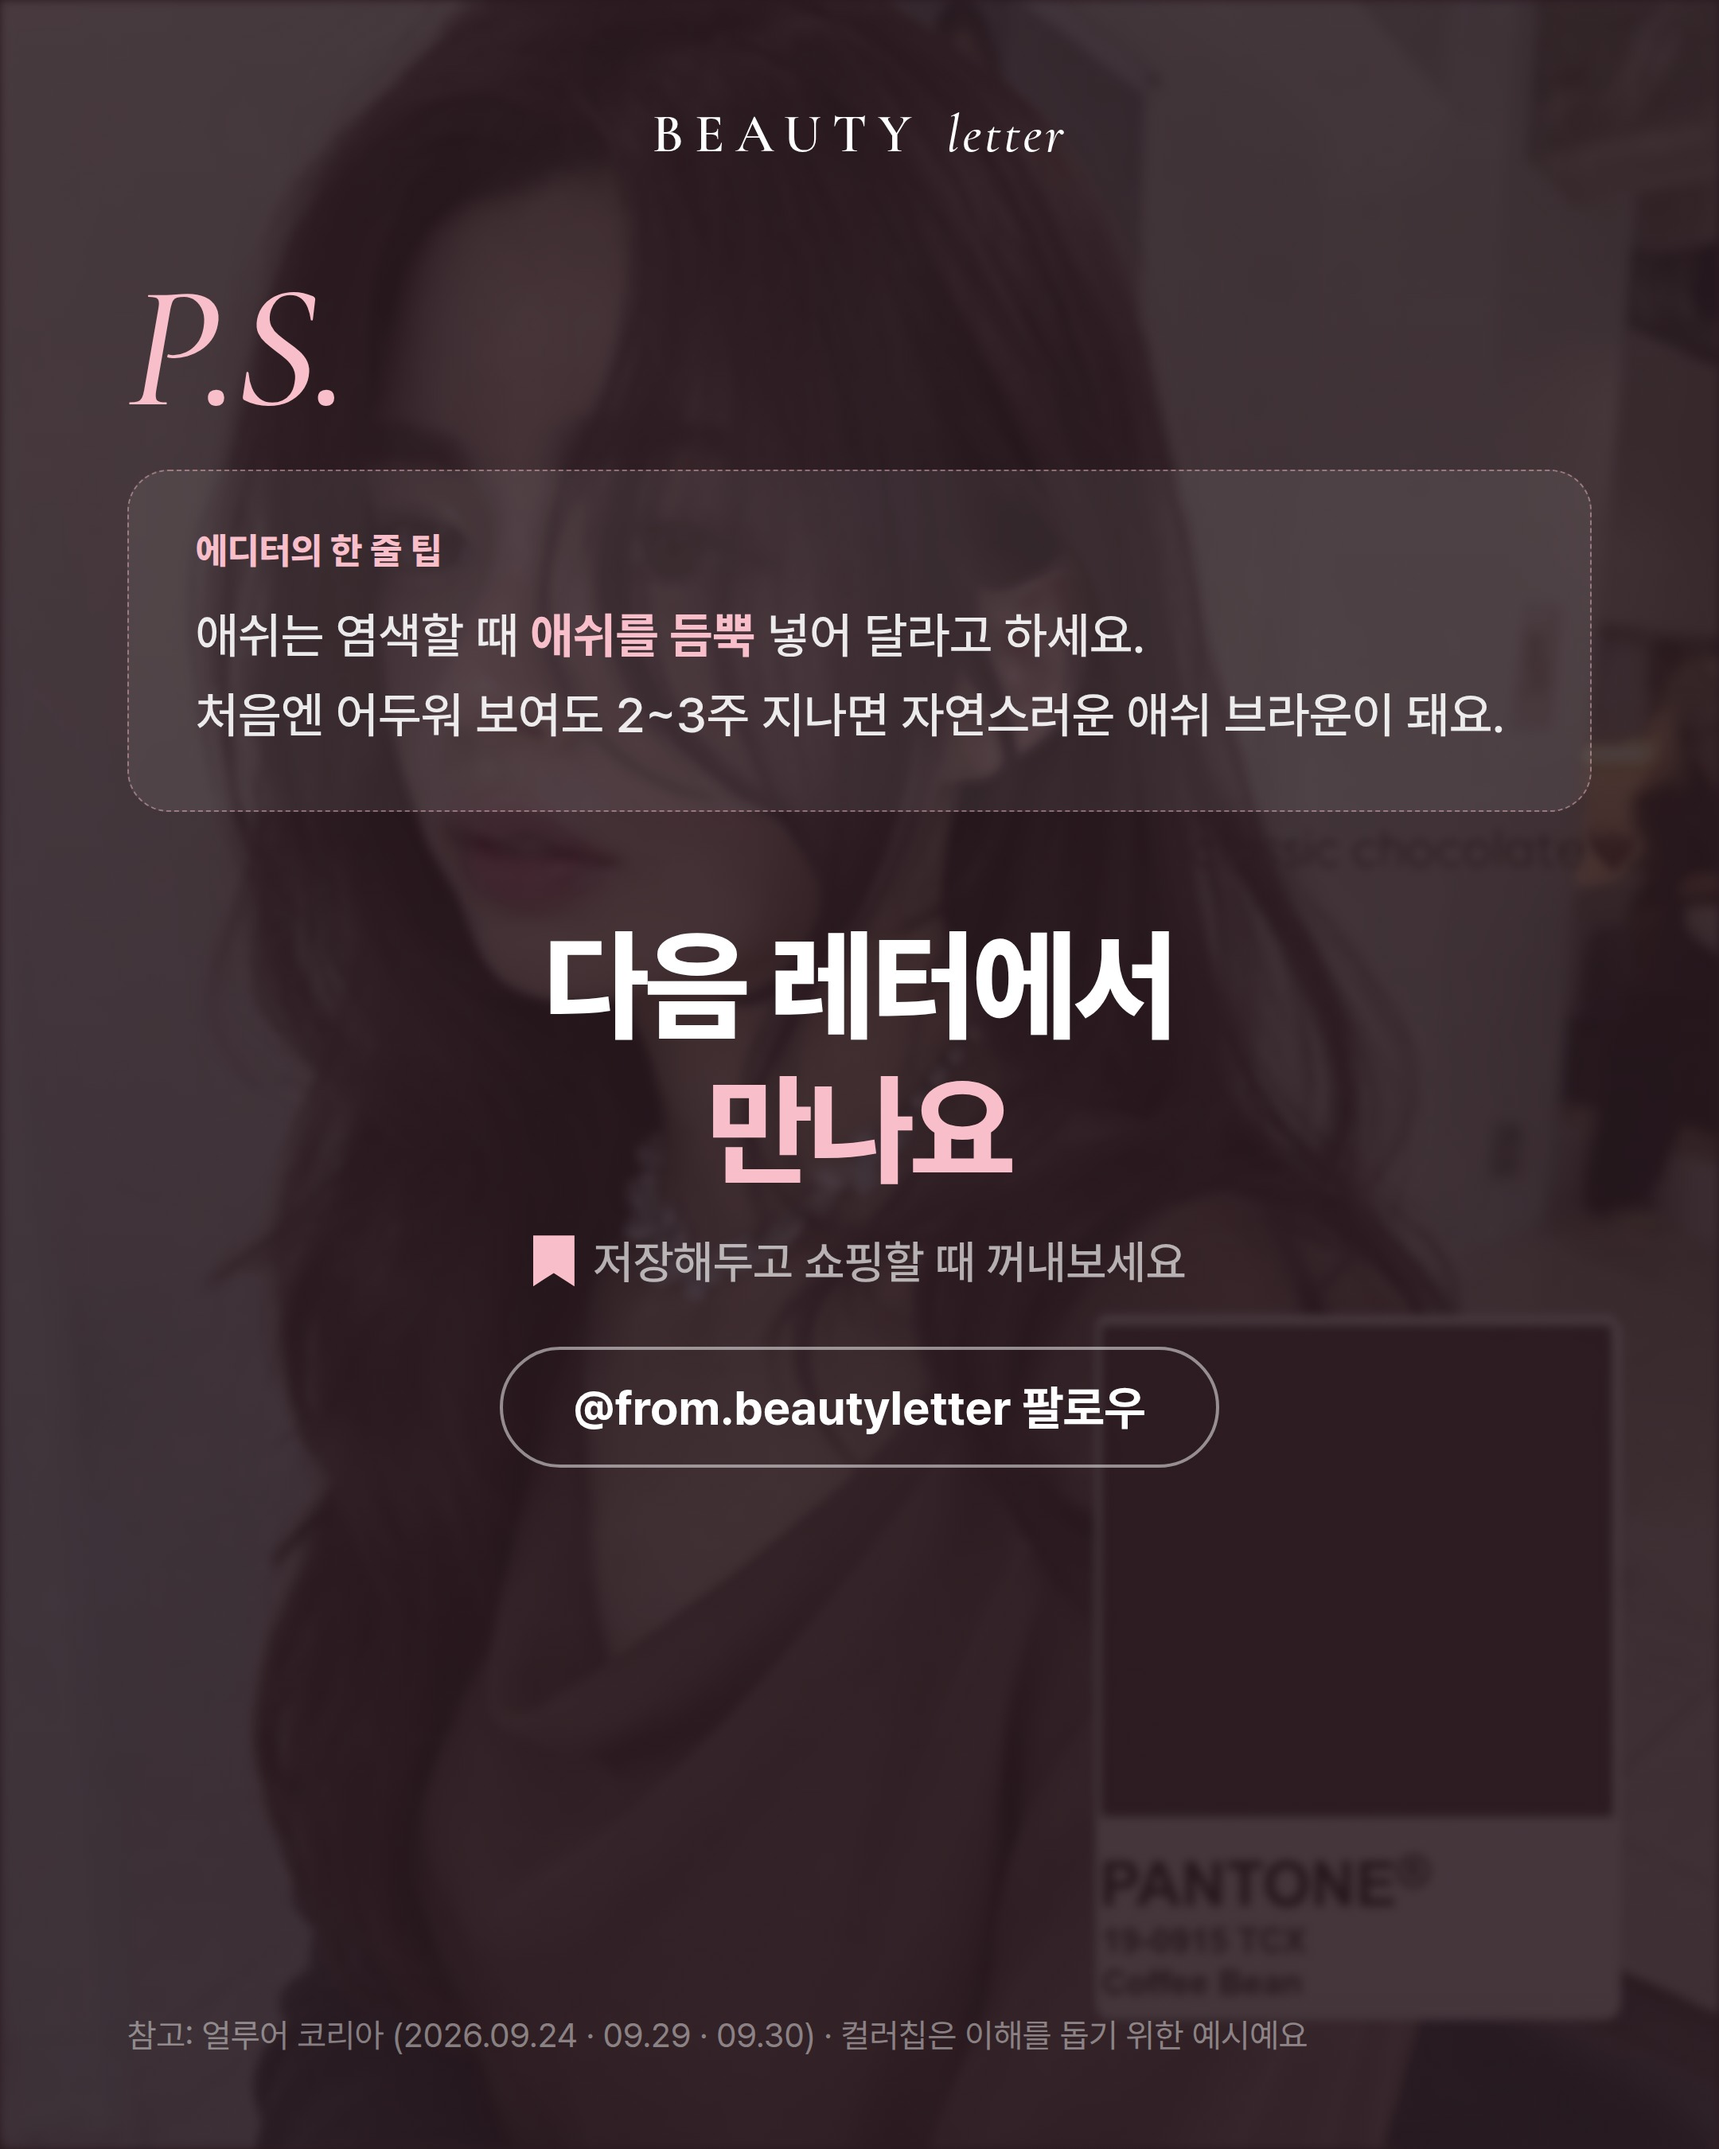
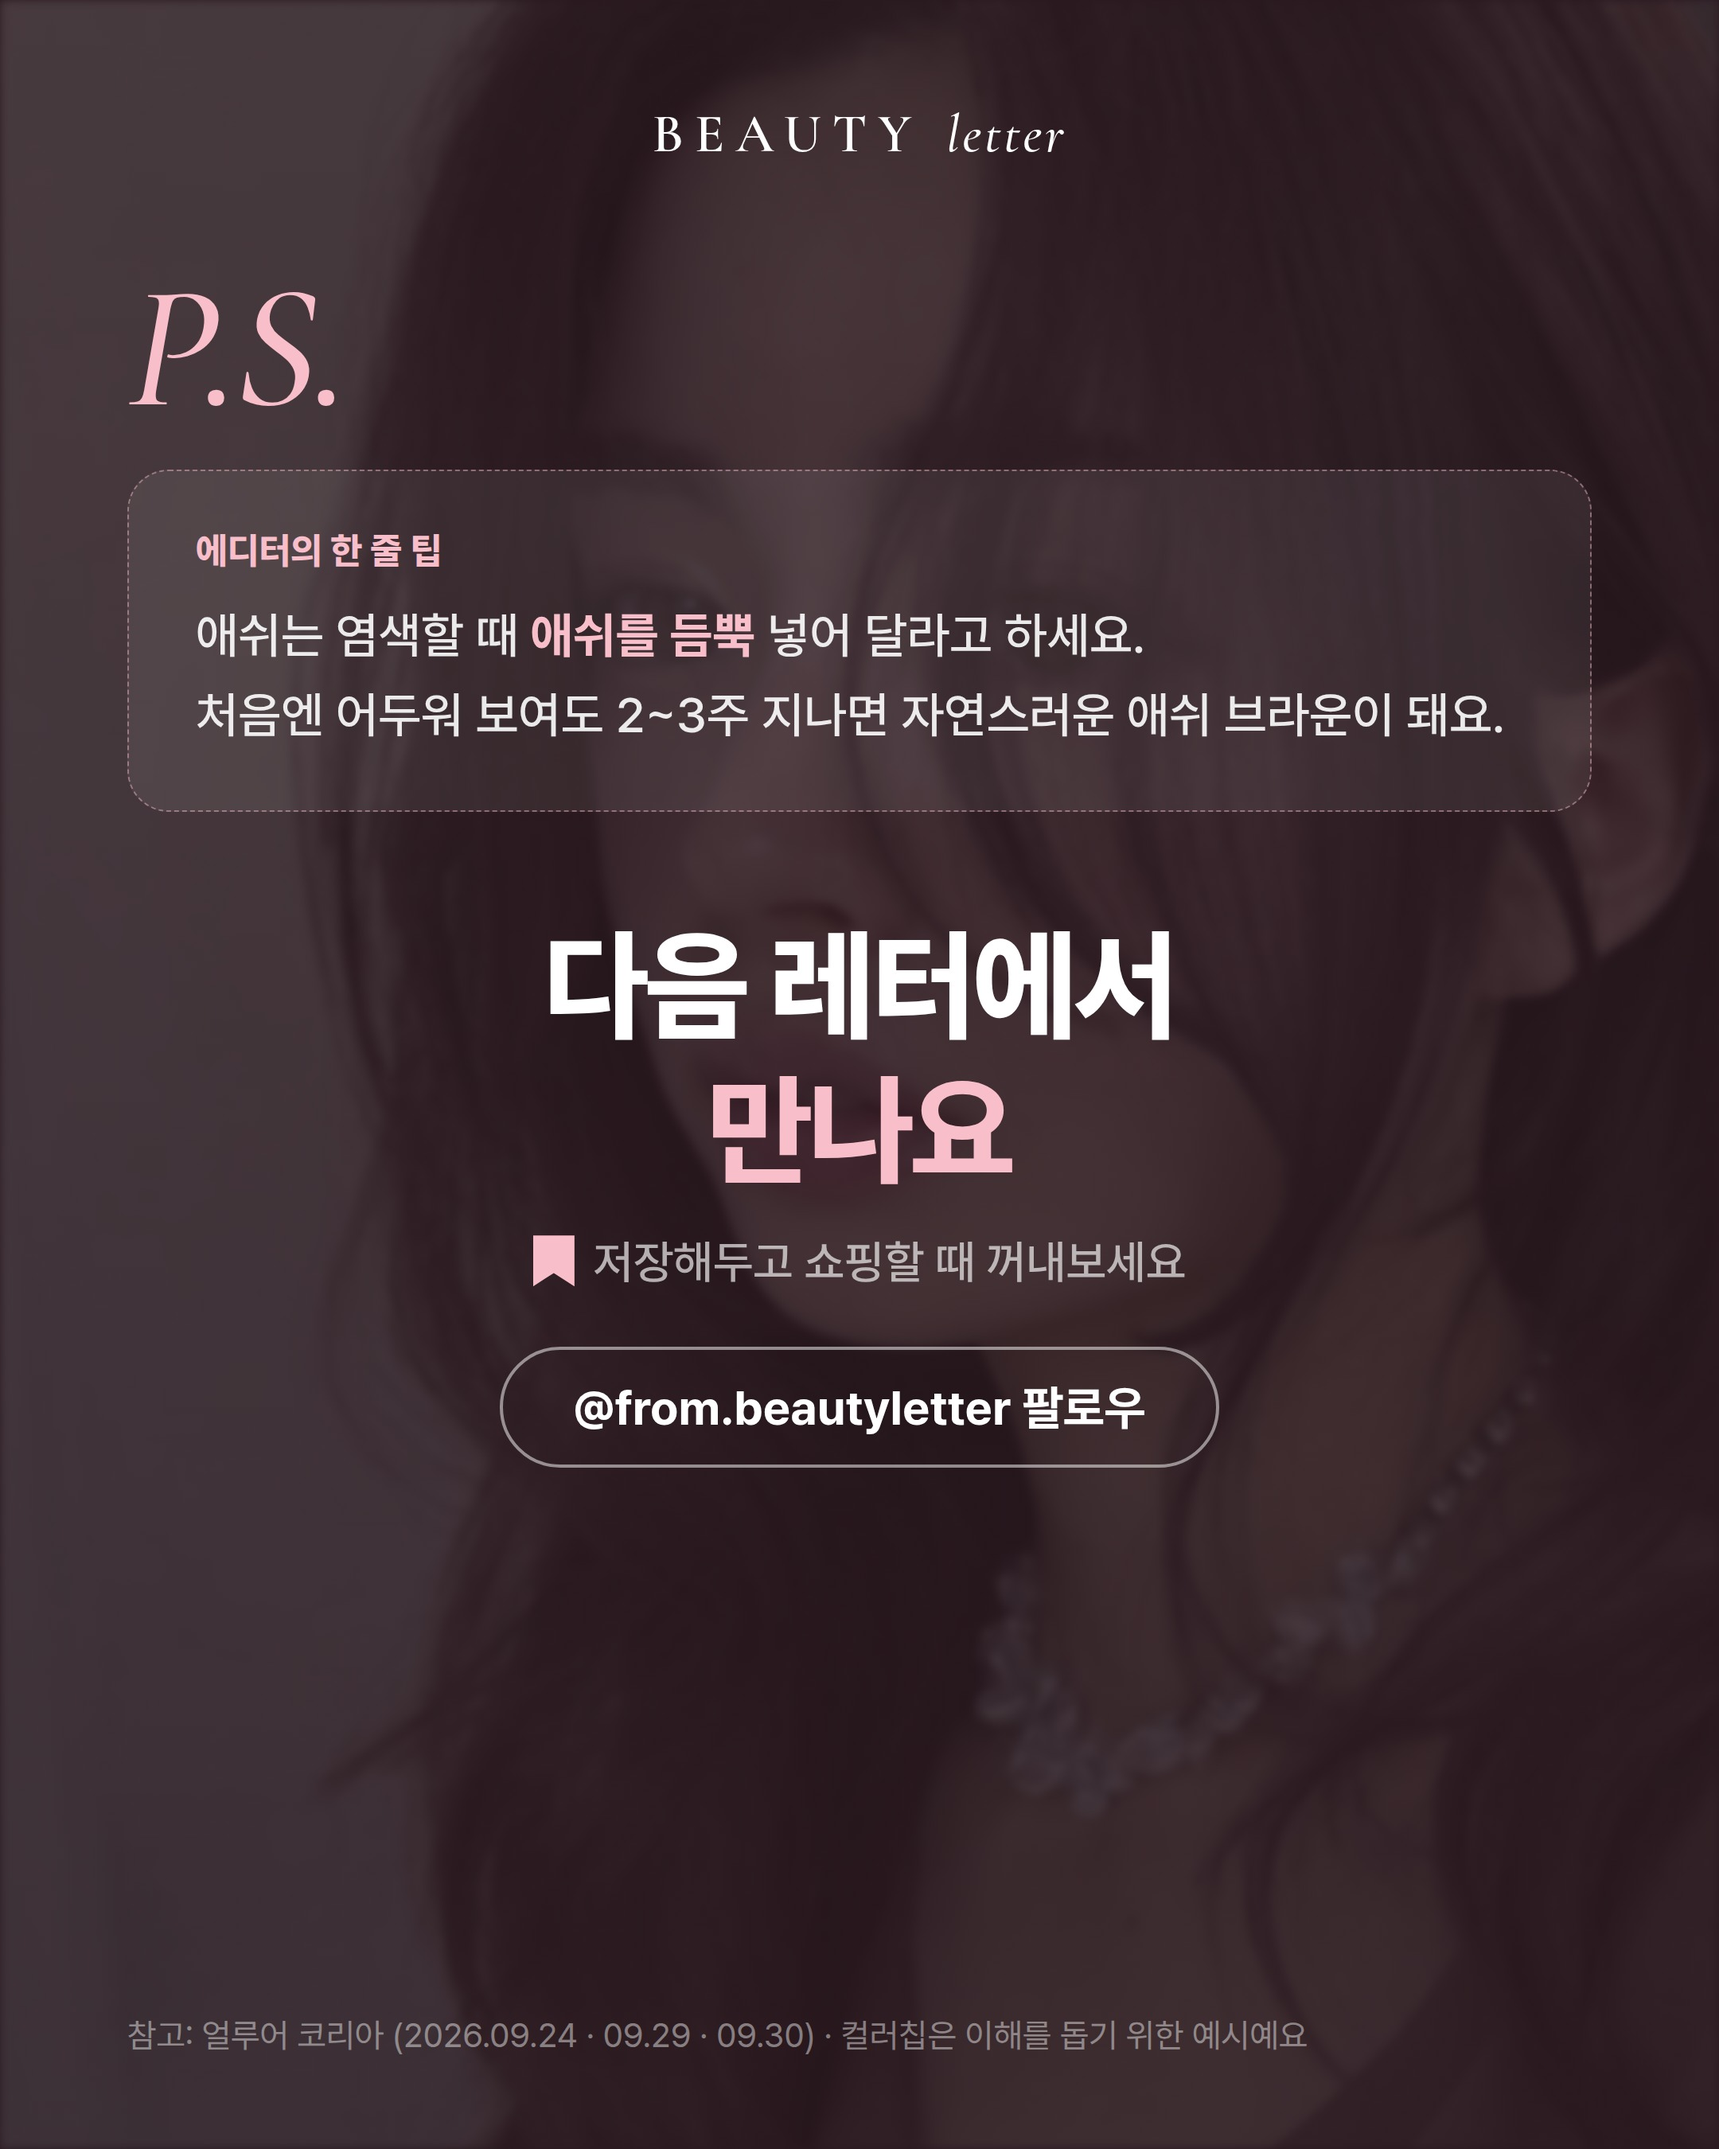
뷰티레터 10/4 오후: 표지 인물 확대 크롭(글자·컬러카드 제외)
Claude-Session: https://claude.ai/code/session_01M29FXMb16fvzM5BCrcufte

diff --git a/design/beauty_news/letters/2026-10-04_pm_hair/slides.html b/design/beauty_news/letters/2026-10-04_pm_hair/slides.html
@@ -11,7 +11,7 @@
 .new-badge { position: absolute; left: var(--pad); top: 190px; z-index: 2; font-family: var(--serif); font-style: italic; font-size: 44px; font-weight: 600; color: var(--rose); border: 2px solid var(--rose); border-radius: 999px; padding: 6px 30px 10px; }
 </style><link rel="stylesheet" href="extra.css" />
 </head><body><div class="sheet">
-<section class="card cover-photo" data-name="01_cover"><div data-slot="photo"><img src="img/cover_photo.jpg" alt="" style="object-position:center 20%" /></div><div class="shade"></div><div class="topbar"><div class="wordmark">BEAUTY <i>letter</i></div></div>
+<section class="card cover-photo" data-name="01_cover"><div data-slot="photo"><img src="img/cover_photo.jpg" alt="" style="object-position:center 15%" /></div><div class="shade"></div><div class="topbar"><div class="wordmark">BEAUTY <i>letter</i></div></div>
   <div class="body"><div class="kicker"><span class="cat">Color Letter</span><span class="sep">·</span><span>FALL HAIR COLOR</span></div><h1>가을 염색,<br/><span class="em">애쉬 vs 매트</span> 내 톤엔?</h1><p class="sub">브라운부터 레드까지,<br/>내 톤에 맞는 가을 헤어 컬러를 골라 봤어요.</p></div>
   </section>
 <section class="card hairp" data-name="02_ashmatte"><div class="topbar"><div class="wordmark" style="font-size:26px;letter-spacing:5px">BEAUTY <i>letter</i></div><div class="pageno"><b>02</b> / 06</div></div><div class="kicker">ASH vs MATTE</div><h2>가을 염색 라이벌,<br/><span class="hl">애쉬 vs 매트</span></h2>

diff --git a/design/beauty_news/letters/2026-10-04_pm_hair/sources.md b/design/beauty_news/letters/2026-10-04_pm_hair/sources.md
@@ -5,6 +5,6 @@
 | 애쉬 브라운(쿨톤)·매트 브라운(웜톤, 홍조) 설명, 애쉬 듬뿍 팁, 뉴트럴은 믹스 | 얼루어 코리아 "애쉬 브라운 vs 매트 브라운, 가을 염색 정답은?" (2026.09.24) |
 | 체리 레드(쿨톤 세련)·레드 브라운(톤 무관)·와인 레드(피부 맑게)·오렌지 레드(웜톤 혈색) | 얼루어 코리아 "올가을 여돌들이 레드 헤어를 선택한 이유" (2026.09.29) — 셀럽 이름·사진은 쓰지 않음 |
 | 투명감·반사빛 톤다운·미세 하이라이트 | 얼루어 코리아 "소두처럼 보이고 싶다면 이렇게 '헤어 컬러'를 바꿔보세요" (2026.09.30) |
-| img/cover_photo.jpg | 사용자가 준 핀터레스트 캡처(2026-10-02)를 Topview image_edit(0.3크레딧)로 편집: 일본어 문구·앱 버튼 제거, 눈 보정, 가을 블라우스로 교체, 얼굴 점 4개 직접 보정. 원작자 요청 시 즉시 내림 |
+| img/cover_photo.jpg | 사용자가 준 핀터레스트 캡처(2026-10-02)를 Topview image_edit(0.3크레딧)로 편집: 일본어 문구·앱 버튼 제거, 눈 보정, 가을 블라우스로 교체, 얼굴 점 4개 직접 보정, 글자·PANTONE 카드가 안 보이게 인물 중심으로 확대 크롭. 원작자 요청 시 즉시 내림 |
 
 - 컬러칩은 이해를 돕는 예시 색.
